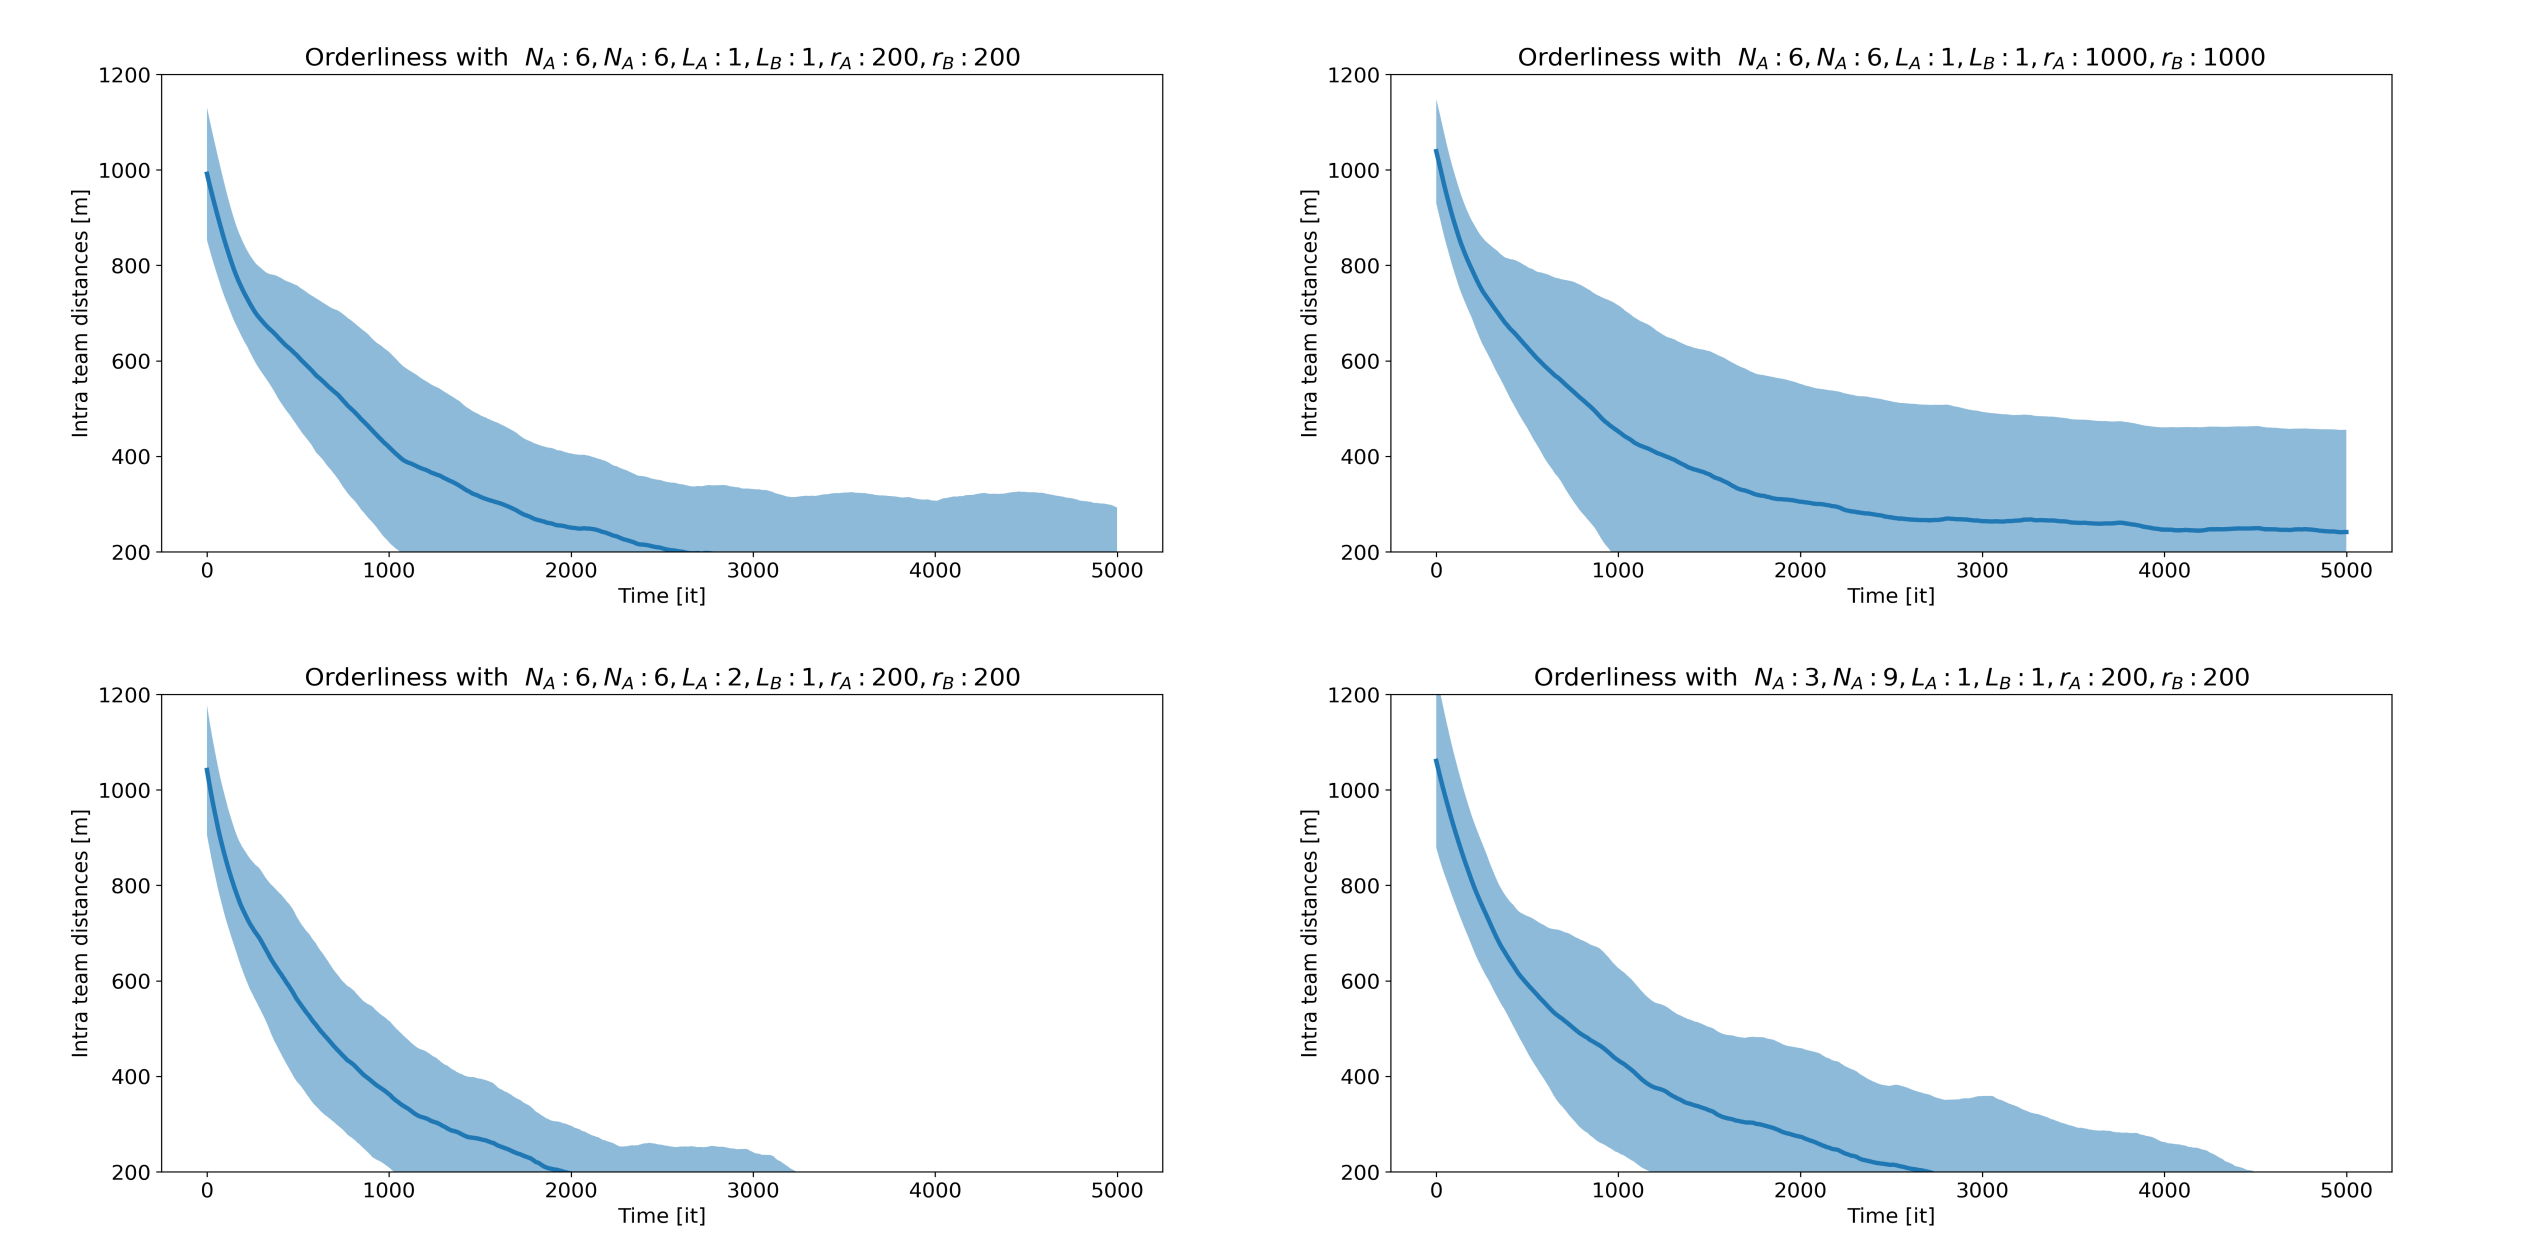
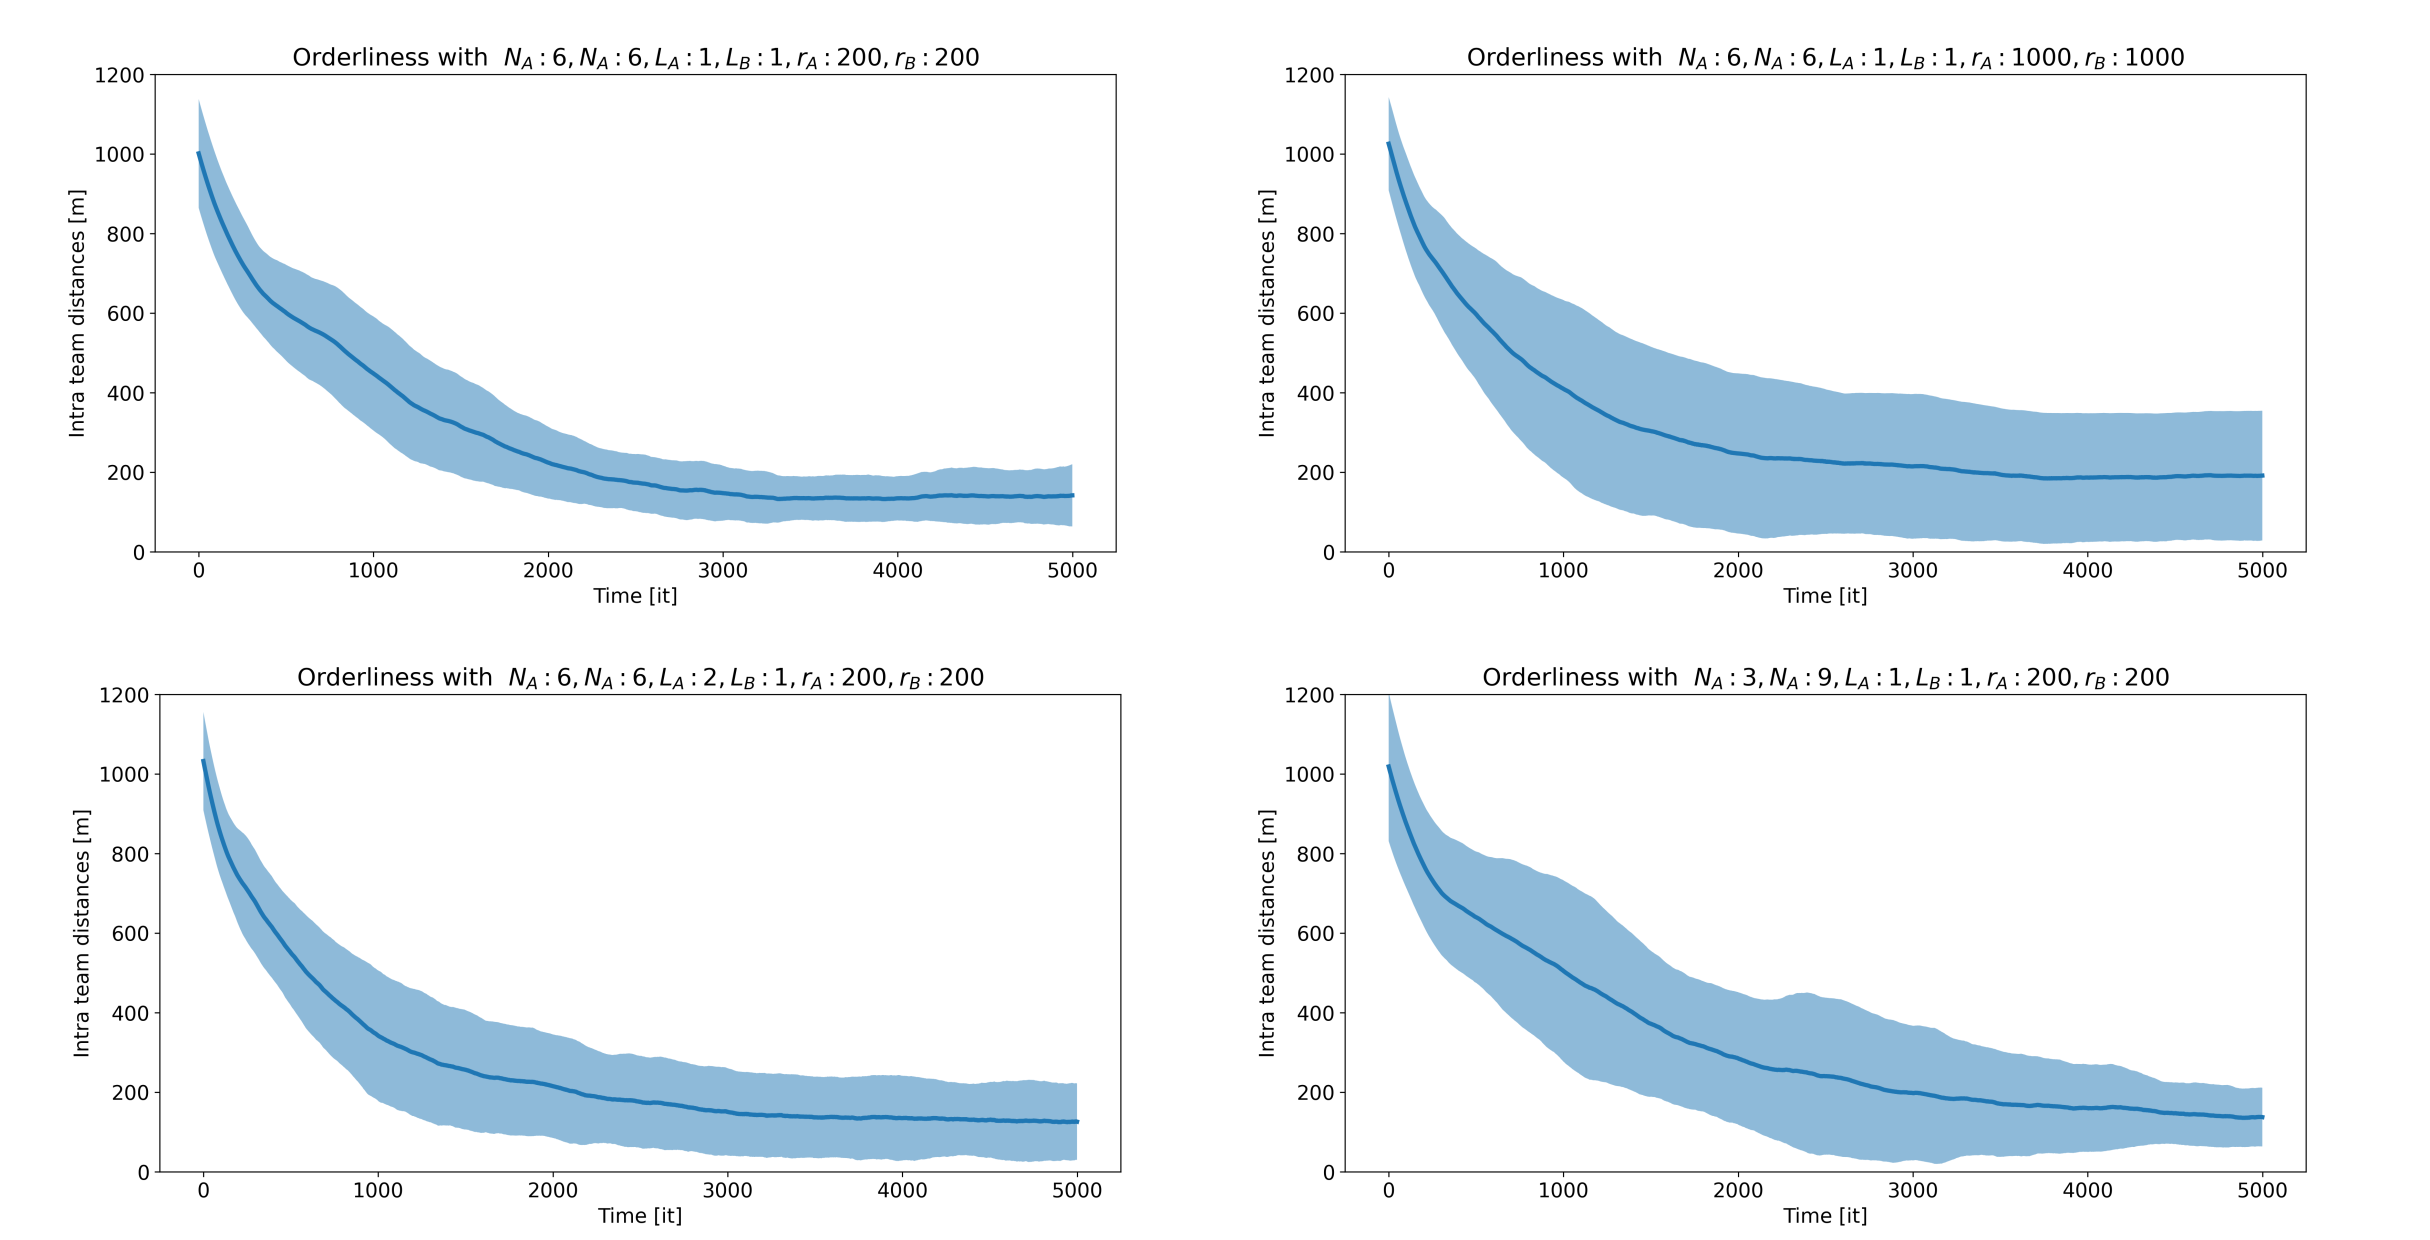
added all figures for final report

diff --git a/main.py b/main.py
@@ -21,10 +21,10 @@ def plot_sims(sim_results,
     # print("save_string:", save_str)
     # print("title: ", title)
 
-    plot_density(sim_results, title=f"Density with {title}", name=f"density{save_str}")
-    plot_rotated_histogram(sim_results, title=f"Histogram with {title}", name=f"histogram{save_str}")
+    # plot_density(sim_results, title=f"Density with {title}", name=f"density{save_str}")
+    # plot_rotated_histogram(sim_results, title=f"Histogram with {title}", name=f"histogram{save_str}")
     plot_separation_index(sim_results, title=f"Orderliness with {title}", name=f"orderliness{save_str}")
-    plot_target_distance(sim_results, title=f"Target distance with {title}", name=f"target_distance{save_str}")
+    # plot_target_distance(sim_results, title=f"Target distance with {title}", name=f"target_distance{save_str}")
 
 
 def run_sims(world,
